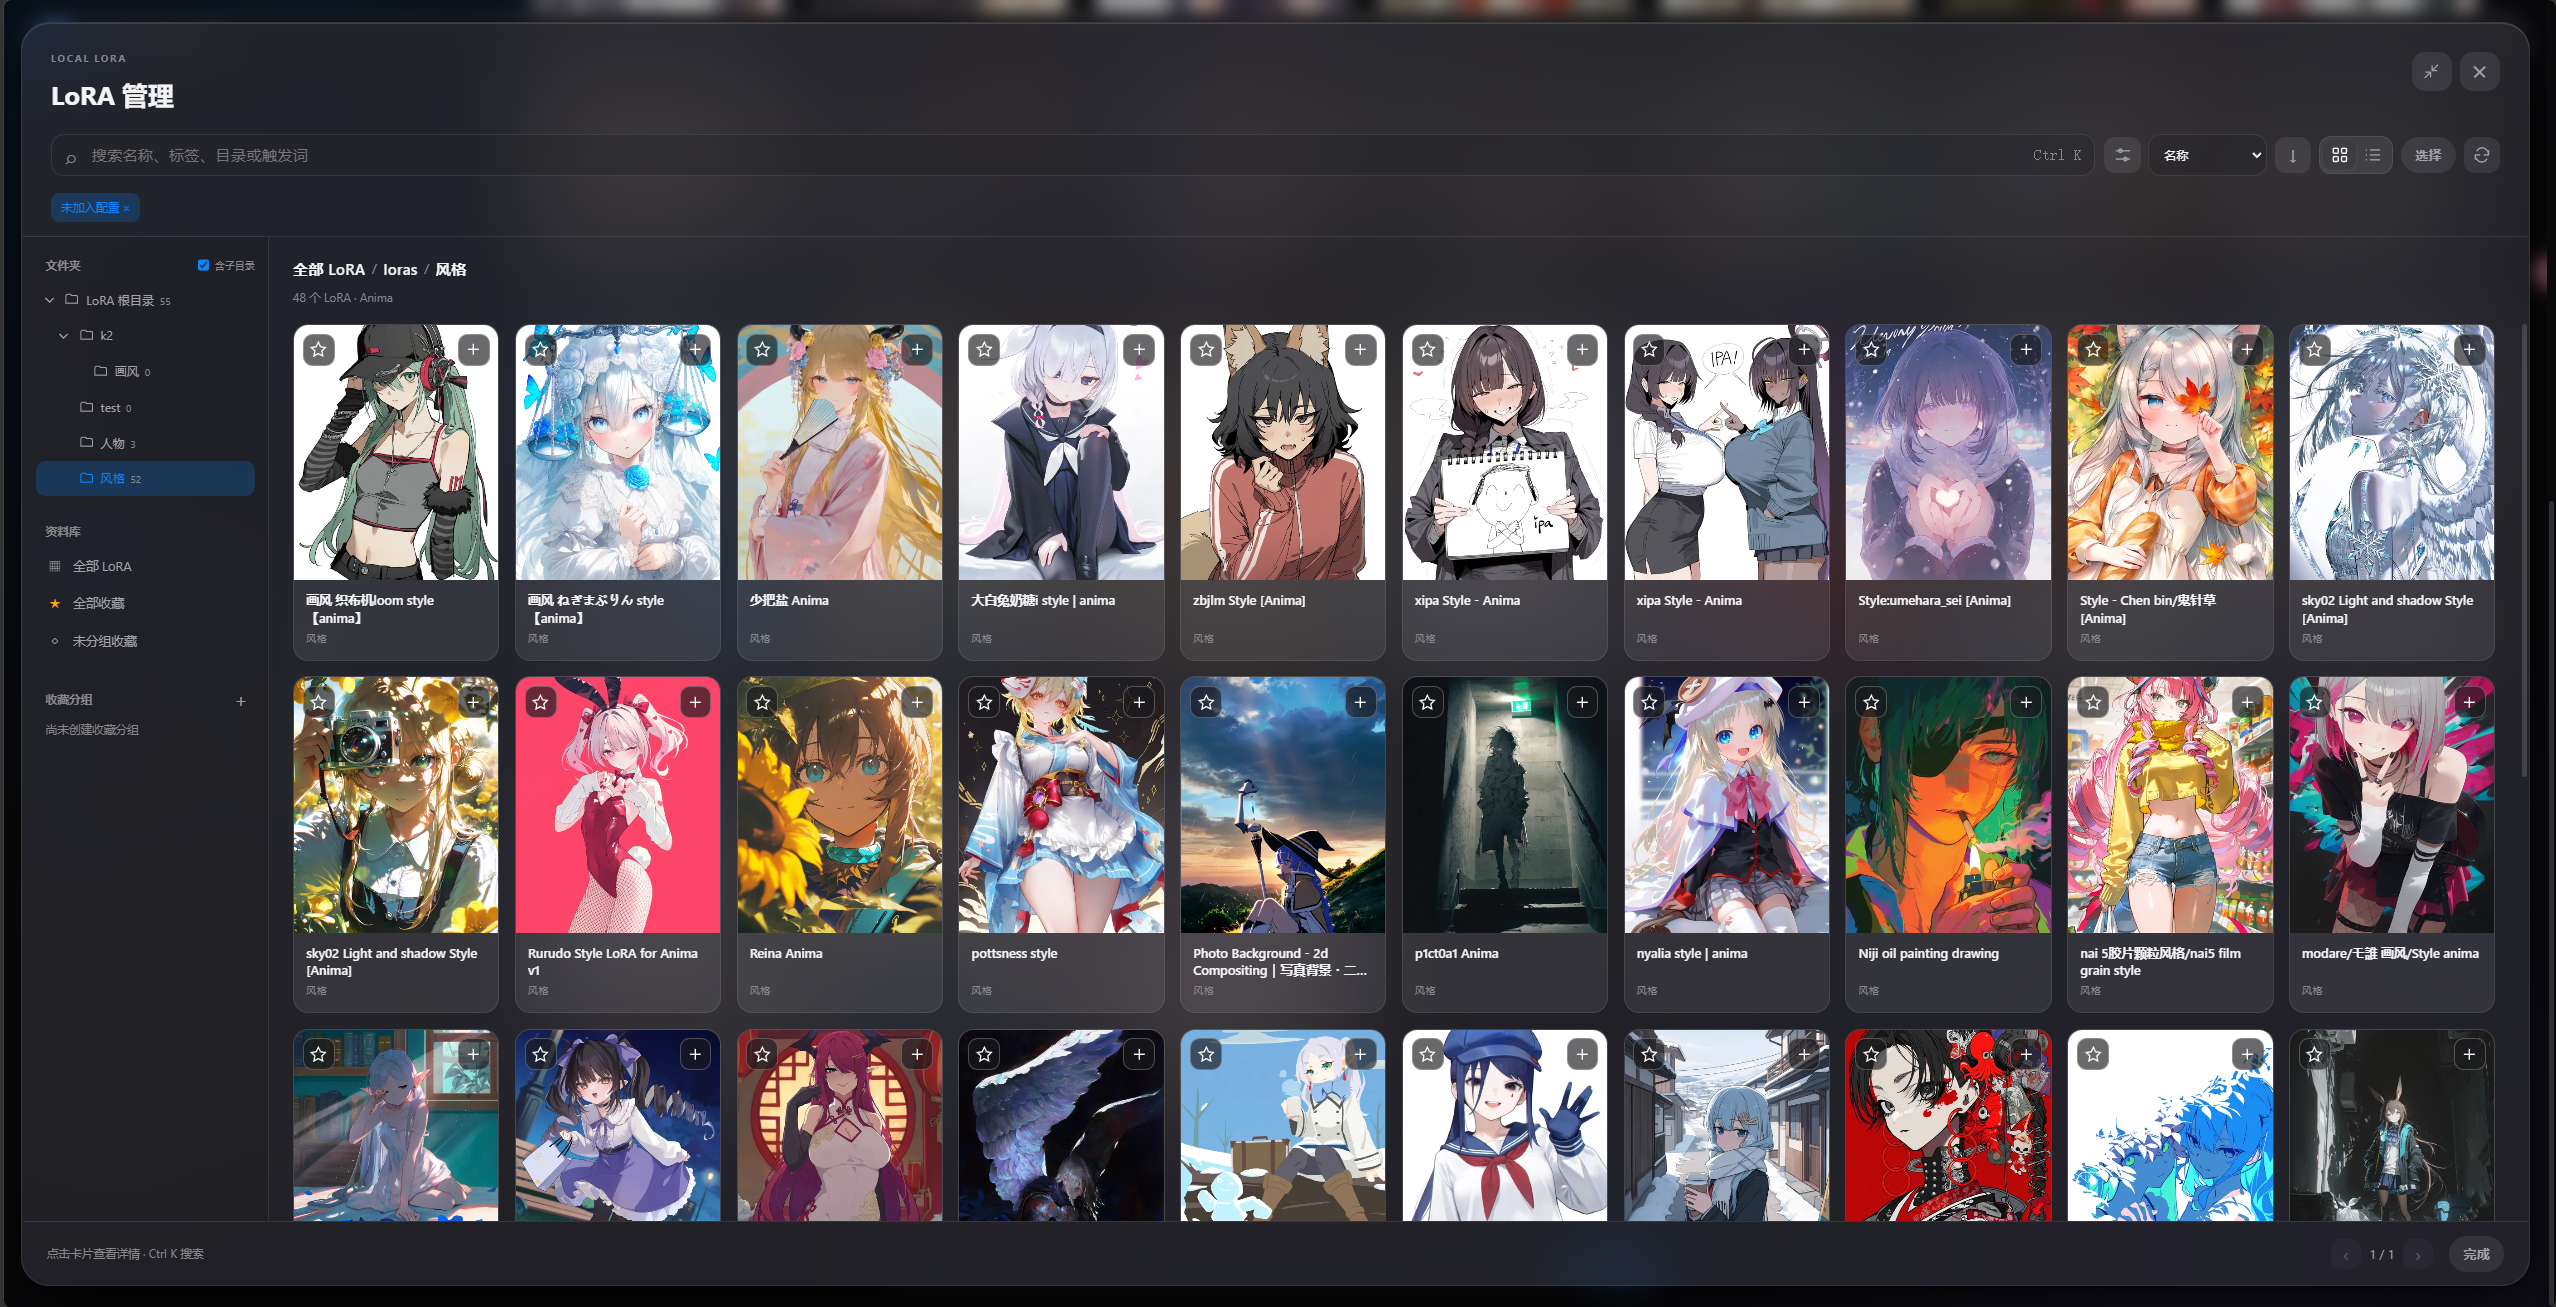
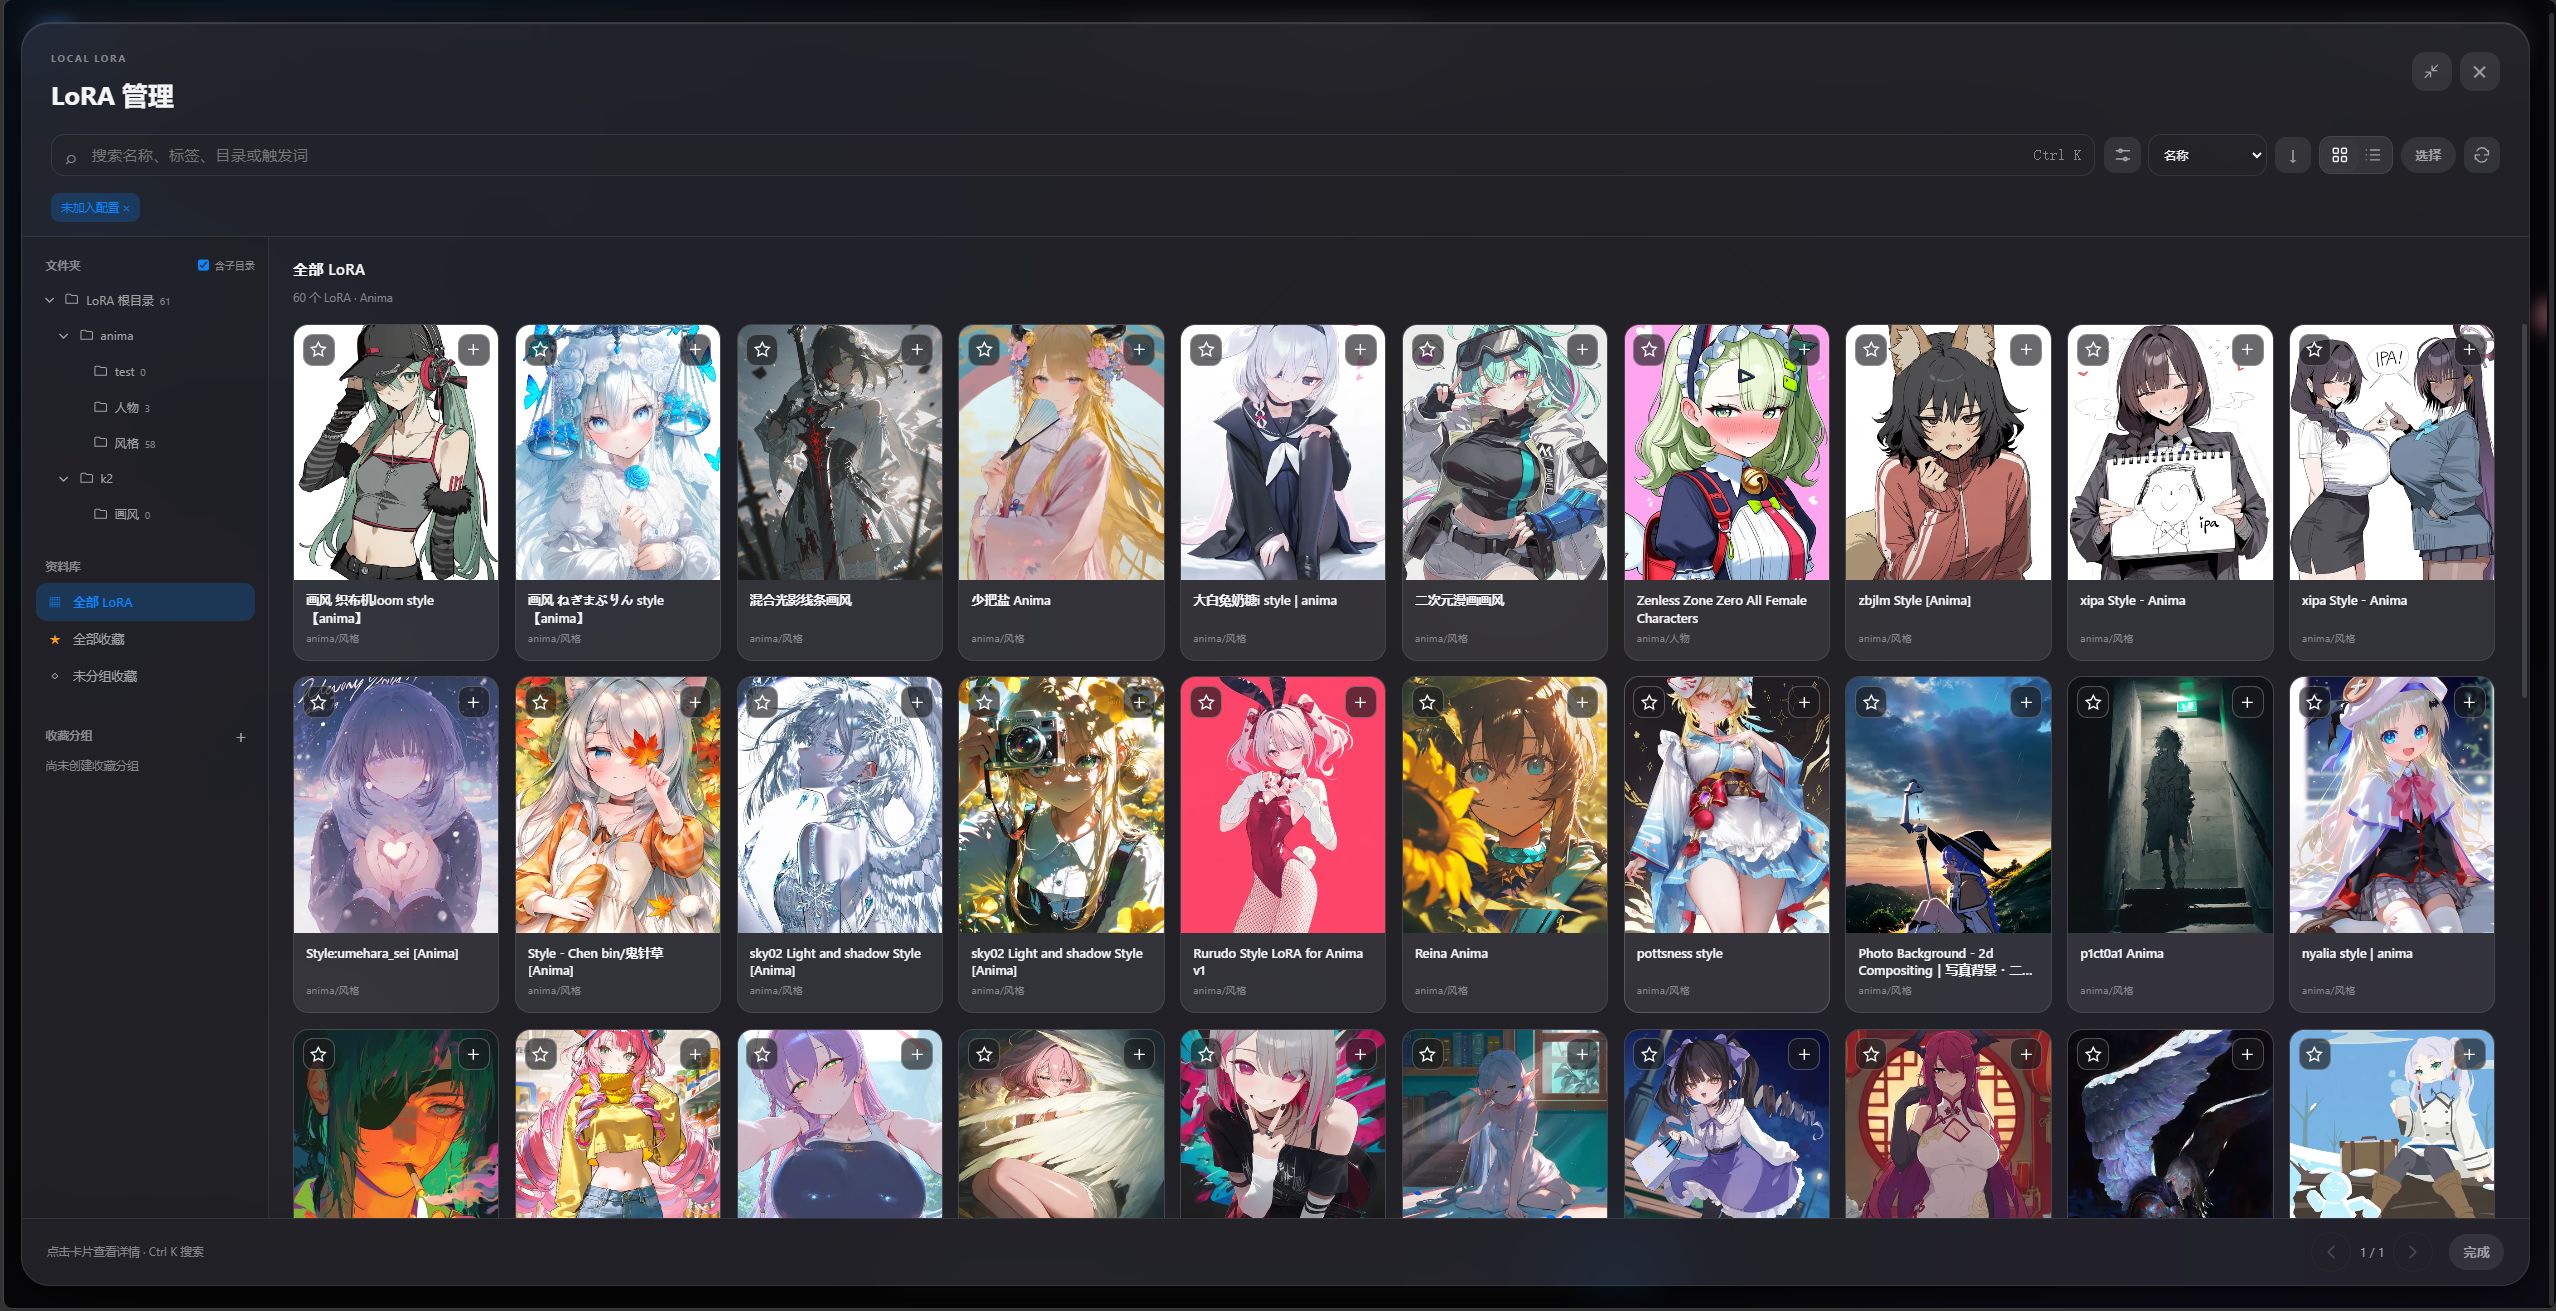
docs: refresh README screenshots and v5 workflow guidance

diff --git a/docs/guide.md b/docs/guide.md
@@ -196,7 +196,7 @@ prompt,雨夜街景,霓虹灯下的城市夜景,A rain-soaked city street illumi
 | LoRA | 多 LoRA 组合、独立启停、权重、排序与触发词管理，结合 LoRA Manager 读取本地资源 |
 | 底图与采样 | 宽高、步数、CFG、采样器、调度器，以及固定或随机种子 |
 | 底图模式 | 普通底图与双采样分别保存编辑配置，图生图只使用普通采样 |
-| 像素高清 | 模型原生放大后按百分比缩图，默认 50% / Lanczos；整图后采样开启时跳过缩图 |
+| 像素高清 | 模型原生放大后按百分比缩图，默认 50% / Lanczos；v5 中开启整图后采样仍保留缩图 |
 | 潜空间放大 | 缩放后独立采样，可设置倍率、算法、步数、CFG、采样器、调度器与降噪；Sesqui 另显示模型格式 |
 | 整图后采样 | 独立开关与采样参数，继承底图最终采样阶段的模型、LoRA、正负条件及图像种子 |
 | 后处理 | N 卡 VSR、SeedVR2、脸部细化与 DLSS，各自开关，依赖对应节点、模型和硬件 |
@@ -214,7 +214,7 @@ prompt,雨夜街景,霓虹灯下的城市夜景,A rain-soaked city street illumi
 
 封面支持 PNG、JPEG、WebP，裁切比例为 4:3。上传后可拖动、使用方向键调整位置，并通过滑块缩放。保存失败保留草稿；关闭有未保存修改的窗口会先询问。界面支持系统的减少动态效果、减少透明度和高对比度偏好。
 
-v4 执行顺序为 **底图 → 像素高清 → 潜空间放大及采样 → 整图后采样 → 脸部细化 → SeedVR2 → N 卡 VSR → DLSS → 保存**。各阶段独立开关；潜空间开启即缩放并采样，再开启整图后采样会执行第二段重绘。整图后采样可单独开启，DLSS 也可单独开启。
+当前默认 v5 沿用 v4 的执行顺序：**底图 → 像素高清 → 潜空间放大及采样 → 整图后采样 → 脸部细化 → SeedVR2 → N 卡 VSR → DLSS → 保存**。各阶段独立开关；潜空间开启即缩放并采样，再开启整图后采样会执行第二段重绘。整图后采样可单独开启，DLSS 也可单独开启。
 
 开关只设置下一次任务包含的阶段。点击「开始生成」时冻结配置，每张图从底图采样开始，完整执行所选阶段并保存；相同提示词、种子和参数也重新计算。模型加载、提示词编码和参考图预处理可复用缓存，任务不会自动使用上一次成图作为输入。放大修复区末尾的「流程」显示当前启用顺序，继承关系和旧设置迁移说明可展开查看。
 
@@ -222,11 +222,11 @@ v3–v5 流程会在底图和每个已启用的后处理阶段结束后自动清
 
 若生成前提示 `VRAM_Debug` 不可用，请在 ComfyUI 环境中安装或更新 ComfyUI-KJNodes，然后重启 ComfyUI 并刷新工作台资源。清理依次跟随实际图像数据执行，可能增加少量耗时；仍被使用的数据和模型继续占用显存，因此不应以显存是否归零判断清理是否执行。
 
-像素高清和整图后采样默认关闭。高清模型按实际原生倍率运行：例如原生 4 倍后缩至 50%，得到约底图 2 倍。开启后采样会完全跳过高清缩图，使用原生尺寸进入后续阶段；如果还开启 VSR、SeedVR2 或潜空间放大，尺寸会继续变化。程序不会为避免显存不足而静默修改倍率或降噪。
+像素高清和整图后采样默认关闭。v5 流程始终应用像素高清的缩图比例和算法，开启整图后采样也不会跳过：例如原生 4 倍后缩至 50%，得到约底图 2 倍，再进入后续阶段。如果还开启 VSR、SeedVR2 或潜空间放大，尺寸会继续变化。v2–v4 历史沿用原执行规则，其中 v3/v4 同时开启像素高清与整图后采样时仍跳过高清缩图。程序不会为避免显存不足而静默修改倍率或降噪。
 
-潜空间采样和整图后采样分别保存参数，默认均使用 `er_sde / simple`：Anima 为 16 步、CFG 4、降噪 0.2；Krea 2 为 10 步、CFG 1、降噪 0.3。两段都继承底图最终采样阶段的模型、LoRA、正负条件及种子。仅开启潜空间采样不会跳过高清缩图。
+潜空间采样和整图后采样分别保存参数，默认均使用 `er_sde / simple`：Anima 为 16 步、CFG 4、降噪 0.2；Krea 2 为 10 步、CFG 1、降噪 0.3。两段都继承底图最终采样阶段的模型、LoRA、正负条件及种子。
 
-潜空间关闭后参数全部隐藏，重新开启保留原值。Sesqui 支持 1–2 倍，当前 Anima/Krea 2 默认使用 Wan 2.1 格式；其他算法支持实际节点声明的范围，旧 bilinear 等选择保持原值。v2/v3 历史重生成保留原版本链路；载入旧设置创建新任务时保留既有开关和参数，按档案初始化新增潜空间采样并提示升级，不改写原记录。
+潜空间关闭后参数全部隐藏，重新开启保留原值。Sesqui 支持 1–2 倍，当前 Anima/Krea 2 默认使用 Wan 2.1 格式；其他算法支持实际节点声明的范围，旧 bilinear 等选择保持原值。v2–v4 历史重生成保留原版本链路；载入旧历史设置或恢复草稿后，继续保留原流程版本、开关和参数，保存或生成不会自动升级，也不改写原历史记录。
 
 Krea 2 提供默认关闭的「K2 多样性增强」。各模型档案与工作台保存独立草稿；旧配置中的兼容参数继续保留。所选采样器或调度器缺失时会提示，不会自动换成其他值。
 
